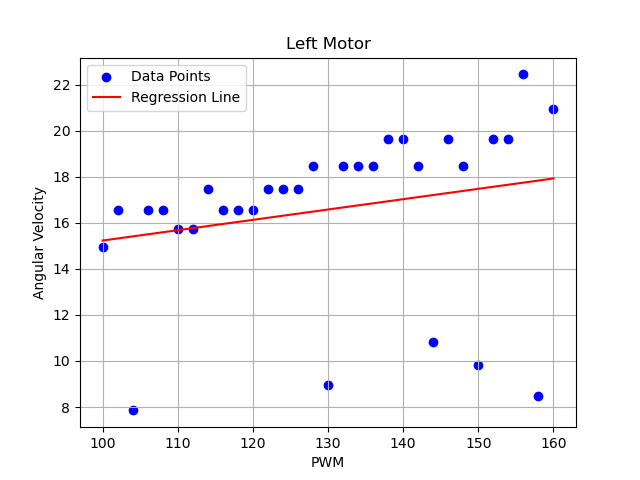
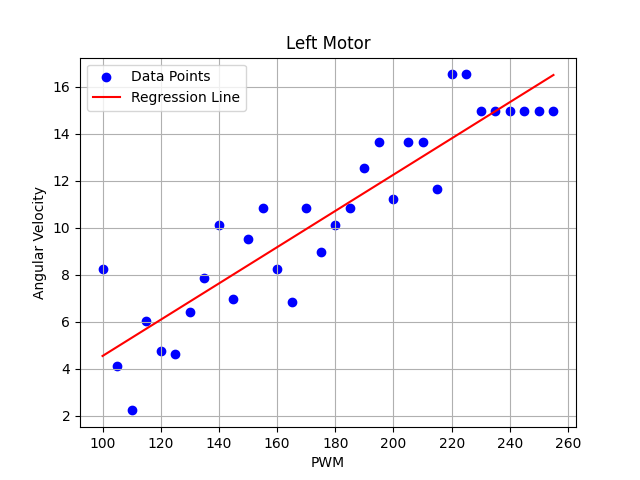
fixed

diff --git a/clients/RobotAgentLimits/pi_agent_limits.py b/clients/RobotAgentLimits/pi_agent_limits.py
@@ -107,6 +107,8 @@ class Robot:
     
   def connect(self) -> None:
     '''Open a new connection with an Arduino Board.'''
+    self.ArenaRulesThread = Thread(target=self.checkArenaRules).start()
+        
     ports = list_ports.comports()
     for p in ports:
       try:
@@ -115,7 +117,6 @@ class Robot:
         self.arduino = serial_for_url(p.device, baudrate=9600, timeout=5, write_timeout=5)
         self.Arduinothread = Thread(target=self.update).start()
         self.connected = True
-        self.ArenaRulesThread = Thread(target=self.checkArenaRules).start()
         
         break
       except:
@@ -162,29 +163,30 @@ class Robot:
     
     #take the arenaLimits
     while(self.agentParameters['AgentId'] not in self.Position or self.ArenaLimitsReceived == False):
-     # self.agent.send("localization/RobotariumData","")
+      self.agent.send("localization/RobotariumData","")
       time.sleep(1)
     #First check the arena limits
     while(True):
-      robotData = json.loads(self.position[self.agentParameters['AgentId']])
-      self.position.pop(self.agentParameters['AgentId'])
-      robotX = float(robotData["x"])
-      robotY = float(robotData["y"])
-      heading = -float(robotData["yaw"])
-      newHeading = self.LimitsAlgorithm.checkLimits(robotX,robotY,heading)
-      if newHeading != 0:
-        #stop control communications
-        self.IgnoreControlCommunication = True
-        #stop command of moving the robot
-        self.move_robot(0,0)
-        self.operationFromRobotDone.wait(timeout=0.3)
-        if self.operationFromRobotDone.is_set():
-          self.operationFromRobotDone.clear()
-        #wait for op_done
-        self.turn_robot(newHeading)
-        self.operationFromRobotDone.wait()
-      else:
-        self.IgnoreControlCommunication = False
+      if len(self.Position)>0:
+        robotData = json.loads(self.Position[self.agentParameters['AgentId']])
+        self.Position.pop(self.agentParameters['AgentId'])
+        robotX = float(robotData["x"])
+        robotY = float(robotData["y"])
+        heading = -float(robotData["yaw"])
+        newHeading = round(self.LimitsAlgorithm.checkLimits(robotX,robotY,heading))
+        if newHeading != 0:
+          #stop control communications
+          self.IgnoreControlCommunication = True
+          #stop command of moving the robot
+          self.move_robot(0,0)
+          self.operationFromRobotDone.wait(timeout=0.3)
+          if self.operationFromRobotDone.is_set():
+            self.operationFromRobotDone.clear()
+          #wait for op_done
+          self.turn_robot(180)
+          self.operationFromRobotDone.wait()
+        else:
+          self.IgnoreControlCommunication = False
         
       
 
@@ -274,7 +276,7 @@ class Robot:
 
 
   def on_data(self, topic: str, message: str) -> None:
-    print(f'{topic} {message}')
+    #print(f'{topic} {message}')
     if topic.startswith('control/') and self.IgnoreControlCommunication == False:
       cmd = topic[len(f'control/{self.AgentName}')+1:].upper()
       params = json.loads(message)
@@ -282,11 +284,11 @@ class Robot:
     else:
       _, agent, topic = topic.split('/')
       if topic== "position":
-        if int(agent)==int(self.AgentName):
+        if int(agent)==int(self.agentParameters["AgentId"]):
           self.Position[agent]= message
       elif topic == "ArenaSize":
         self.ArenaLimitsReceived = True
-        self.LimitsAlgorithm.setArenaSize(json.loads(message))
+        self.LimitsAlgorithm.addLimits(json.loads(message))
                
        
   def angularWheelSpeed(self, w_wheel, velocity_robot):

diff --git a/hub/localization/src/localization/localization.cpp b/hub/localization/src/localization/localization.cpp
@@ -131,7 +131,7 @@ int Localization::init(int argc,char **argv)
         cv::aruco::getPredefinedDictionary( \
         cv::aruco::PREDEFINED_DICTIONARY_NAME(dictionaryId));
     
-    cv::FileStorage fs("/home/alex/workspace/robotarium-hub/hub/localization/calibration_params.yml", cv::FileStorage::READ);
+    cv::FileStorage fs("/home/admin/workspace/robotarium-hub/hub/localization/calibration_params.yml", cv::FileStorage::READ);
     fs["camera_matrix"] >> this->camera_matrix;
     fs["distortion_coefficients"] >> this->dist_coeffs;
 
@@ -159,7 +159,7 @@ bool Localization::FindArena()
         cvtColor(this->image,this->grayMat,cv::COLOR_BGR2GRAY);
         this->image.copyTo(this->image_copy);
         //Finding the contours of the arena
-        cv::threshold(this->grayMat,this->binary_image,200,255,cv::CHAIN_APPROX_NONE);
+        cv::threshold(this->grayMat,this->binary_image,110,255,cv::CHAIN_APPROX_NONE);
 
         std::vector<std::vector<cv::Point> > contours;
         cv::findContours(binary_image,contours,cv::RETR_EXTERNAL,cv::CHAIN_APPROX_SIMPLE);
@@ -205,8 +205,9 @@ bool Localization::FindArena()
                 this->RobotariumData.x.push_back(this->tvecs[0][0]-this->baseArenaLength/2);
                 this->RobotariumData.y.push_back(this->tvecs[0][1]-this->weightArenaLength/2);
 
-               // agentCommunication->setRobotariumData(RobotariumData);
+                //agentCommunication->setRobotariumData(RobotariumData);
                 ArenaFound=true;
+                std::cout<<"ARENA FOUND"<<std::endl;
                 for (long unsigned int i = 0; i < rvecs.size(); ++i) {
                     auto rvec = rvecs[i];
                     auto tvec = tvecs[i];
@@ -256,9 +257,9 @@ void Localization::FindRobot()
         this->in_video.retrieve(this->image);
         
         cvtColor(this->image,this->grayMat,cv::COLOR_BGR2GRAY);
-        cv::threshold(this->grayMat, this->binary_image, 100, 255, cv::THRESH_BINARY);
+        cv::threshold(this->grayMat, this->binary_image, 50, 255, cv::THRESH_BINARY);
 
-        cv::GaussianBlur(this->binary_image, smoothed_image, cv::Size(5,5), 1.0); // Tamaño del kernel y desviación estándar
+        cv::GaussianBlur(this->grayMat, smoothed_image, cv::Size(5,5), 0.8); // Tamaño del kernel y desviación estándar
         this->image.copyTo(this->image_copy);
         
         //falta estimar la posicion de la camara con respecto a la arena
@@ -364,7 +365,7 @@ bool Localization::EstimateArenaPosition(const std::vector<cv::Point2f>& corners
     objPoints.push_back(cv::Point3f(0,-weightLength,0));
         cv::Mat rvec, tvec;
         
-        if ((corners.size() >= 4 && corners.size() < 5) && (this->camera_matrix.rows > 0) && (this->dist_coeffs.rows > 0))
+        if ((corners.size() == 4) && (this->camera_matrix.rows > 0) && (this->dist_coeffs.rows > 0))
         {
             std::cout<< "corners: "<<corners<<std::endl;
             cv::Mat rvec, tvec;

diff --git a/clients/rendevouz/rendevouz.py b/clients/rendevouz/rendevouz.py
@@ -18,11 +18,11 @@ logging.basicConfig(level=logging.INFO)
 
 # Who I am
 AGENT_ID = 'Algorithm'
-AGENT_IP = '192.168.1.109'
-AGENT_CMD_PORT = 5561
-AGENT_DATA_PORT = 5562
+AGENT_IP = '192.168.10.1'
+AGENT_CMD_PORT = 5581
+AGENT_DATA_PORT = 5582
 # Where the server is 
-HUB_IP = '192.168.1.109'
+HUB_IP = '192.168.10.1'
 HUB_CMD_PORT = 5555
 HUB_DATA_PORT = 5556
 Position={}
@@ -48,9 +48,15 @@ class rendevouz:
         [-self.L/(2*self.R), 1/self.R]]
 
   def test(self):
+    w=0
+    vel=8*3.35
+    velocity_robot=[w,vel]
+    angularWheel = [0.0, 0.0]
     while(1):
-      self.agent.send('control/RobotAgent1/turn', {'angle': 90})
-      time.sleep(2)
+      
+      self.angularWheelSpeed(angularWheel,velocity_robot)
+      self.agent.send('control/RobotAgent1/move',{'v_left':angularWheel[0],'v_right':angularWheel[1]})
+      time.sleep(1)
       
   def connect(self):
     logging.debug('starting device')
@@ -177,14 +183,14 @@ class rendevouz:
     except:
       print("invalid message")
       return
-    if agent not in self.state:
-      self.state[agent]={}
-    self.state[agent][topic] = ast.literal_eval(message)
-    if self.Meta in self.Position and '2' in self.Position:
-      self.tval_before=time.time()*1000 
-      self.orientation('2')
-    if topic == "position":
-      self.Position[agent]=message
+    # if agent not in self.state:
+    #   self.state[agent]={}
+    # self.state[agent][topic] = ast.literal_eval(message)
+    # if self.Meta in self.Position and '2' in self.Position:
+    #   self.tval_before=time.time()*1000 
+    #   self.orientation('2')
+    # if topic == "position":
+    #   self.Position[agent]=message
       
     
  

diff --git a/hub/robotarium_hub.py b/hub/robotarium_hub.py
@@ -32,9 +32,9 @@ class RobotariumHub:
         }
         self.context = zmq.Context()
         self.commands_socket = self.context.socket(zmq.REP)
-        self.commands_socket.bind(f'tcp://192.168.1.109:{CMD_PORT}')
+        self.commands_socket.bind(f'tcp://192.168.10.1:{CMD_PORT}')
         self.data_socket = self.context.socket(zmq.PUB)
-        self.data_socket.bind(f'tcp://192.168.1.109:{DATA_PORT}')
+        self.data_socket.bind(f'tcp://192.168.10.1:{DATA_PORT}')
         self.agents = {}
         self.camera = {}
         self.running = True

diff --git a/hub/localization/src/comunication/comunication.h b/hub/localization/src/comunication/comunication.h
@@ -7,9 +7,9 @@
 #include <pthread.h>
 #include "common.h"
 using json = nlohmann::json;
-static const std::string PUBLISH_ENDPOINT = "tcp://192.168.1.109:5557";
-static const std::string SUBSCRIBE_ENDPOINT = "tcp://192.168.1.109:5556";
-static const std::string HUB_IP = "192.168.1.109";//"127.0.0.1";
+static const std::string PUBLISH_ENDPOINT = "tcp://192.168.10.1:5557";
+static const std::string SUBSCRIBE_ENDPOINT = "tcp://192.168.10.1:5556";
+static const std::string HUB_IP = "192.168.10.1";//"127.0.0.1";
 class AgentCommunication
 {
     public:

diff --git a/clients/CalibrateFeedForward/CalibrateFeedForwardAgent.py b/clients/CalibrateFeedForward/CalibrateFeedForwardAgent.py
@@ -117,9 +117,9 @@ class CalibrateFeedForward:
       self.linearRegressionLeft.addData(pwmLeft, velocityData["w_left"])
       
 
-      pwmLeft += 2
-      pwmRight += 2
-      if pwmLeft > 160 or pwmRight > 160:
+      pwmLeft += 5
+      pwmRight += 5
+      if pwmLeft > 255 or pwmRight > 255:
         self.move_wheels(0, 0)
         break
       

diff --git a/clients/RobotAgentLimits/LimitsAlgorithm.py b/clients/RobotAgentLimits/LimitsAlgorithm.py
@@ -12,8 +12,8 @@ class LimitsAlgorithm:
         self.newHeading = 0
         self.segmentOfTheRectangle = []
         self.minimumSafetyDistance = 10
-        self.x=[]
-        self.y=[]
+        self.x=[None]*5
+        self.y=[None]*5
 
     def addLimits(self,limits):
         
